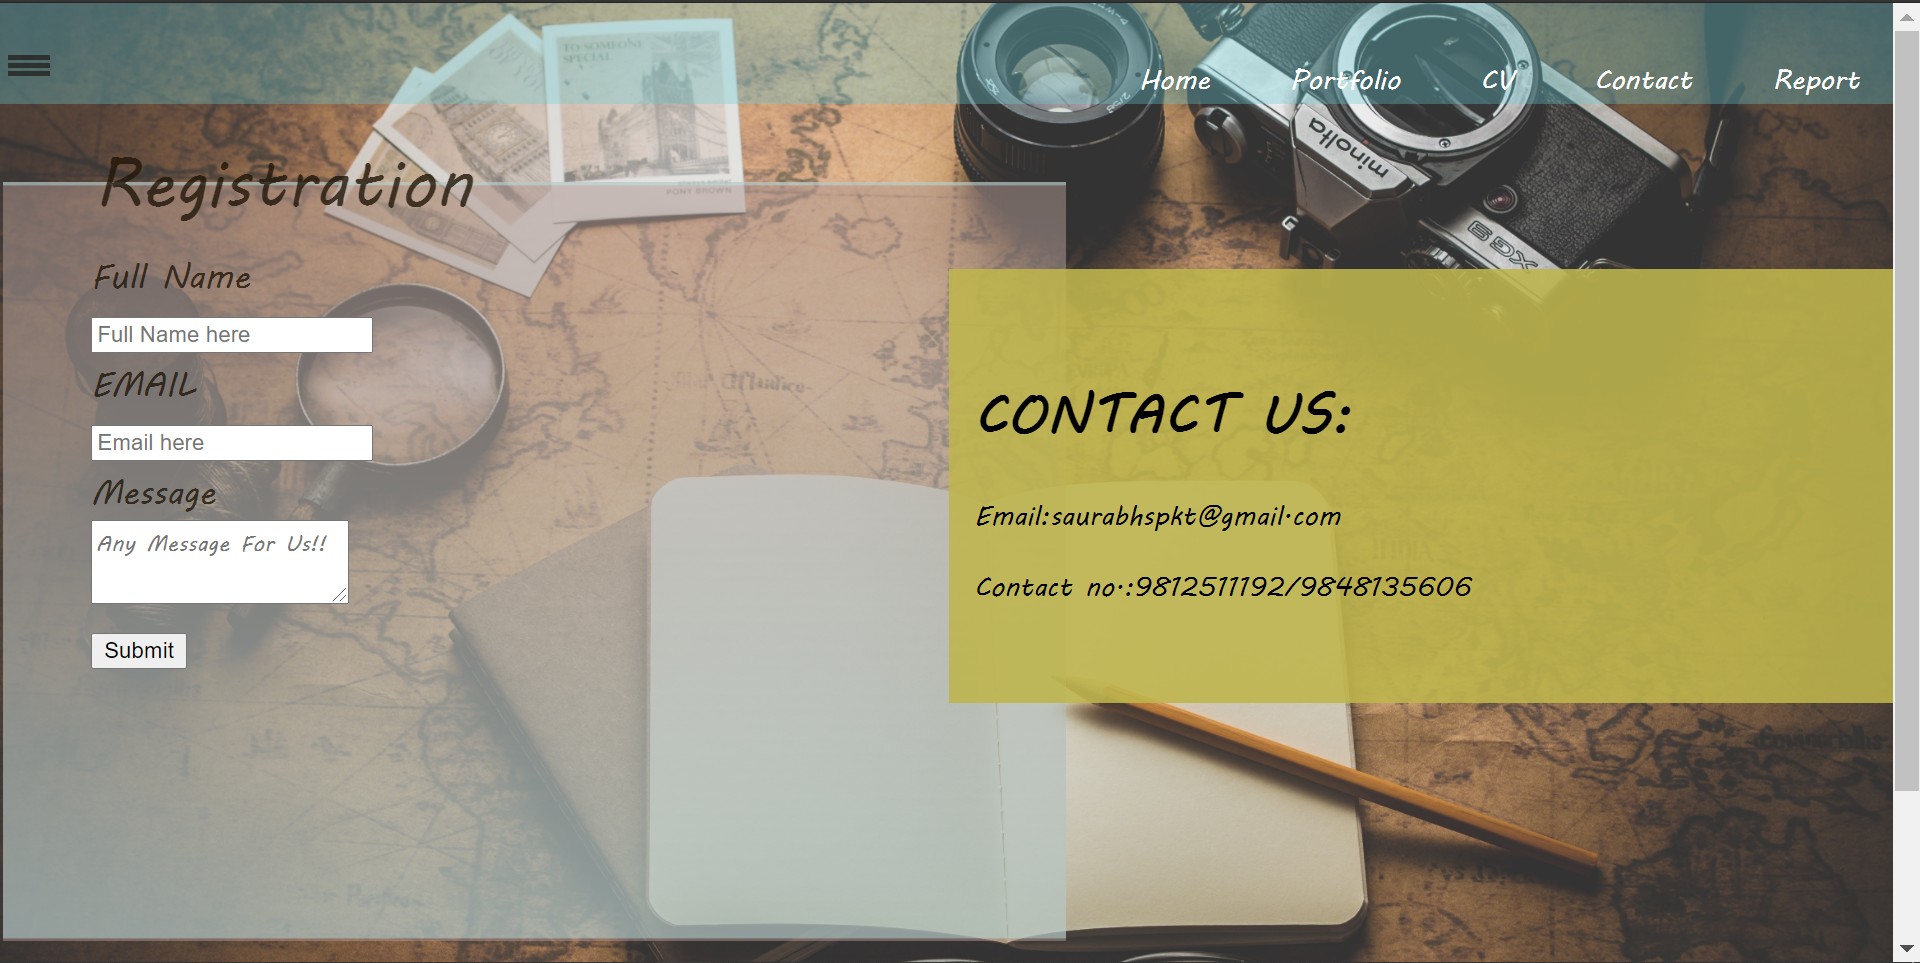
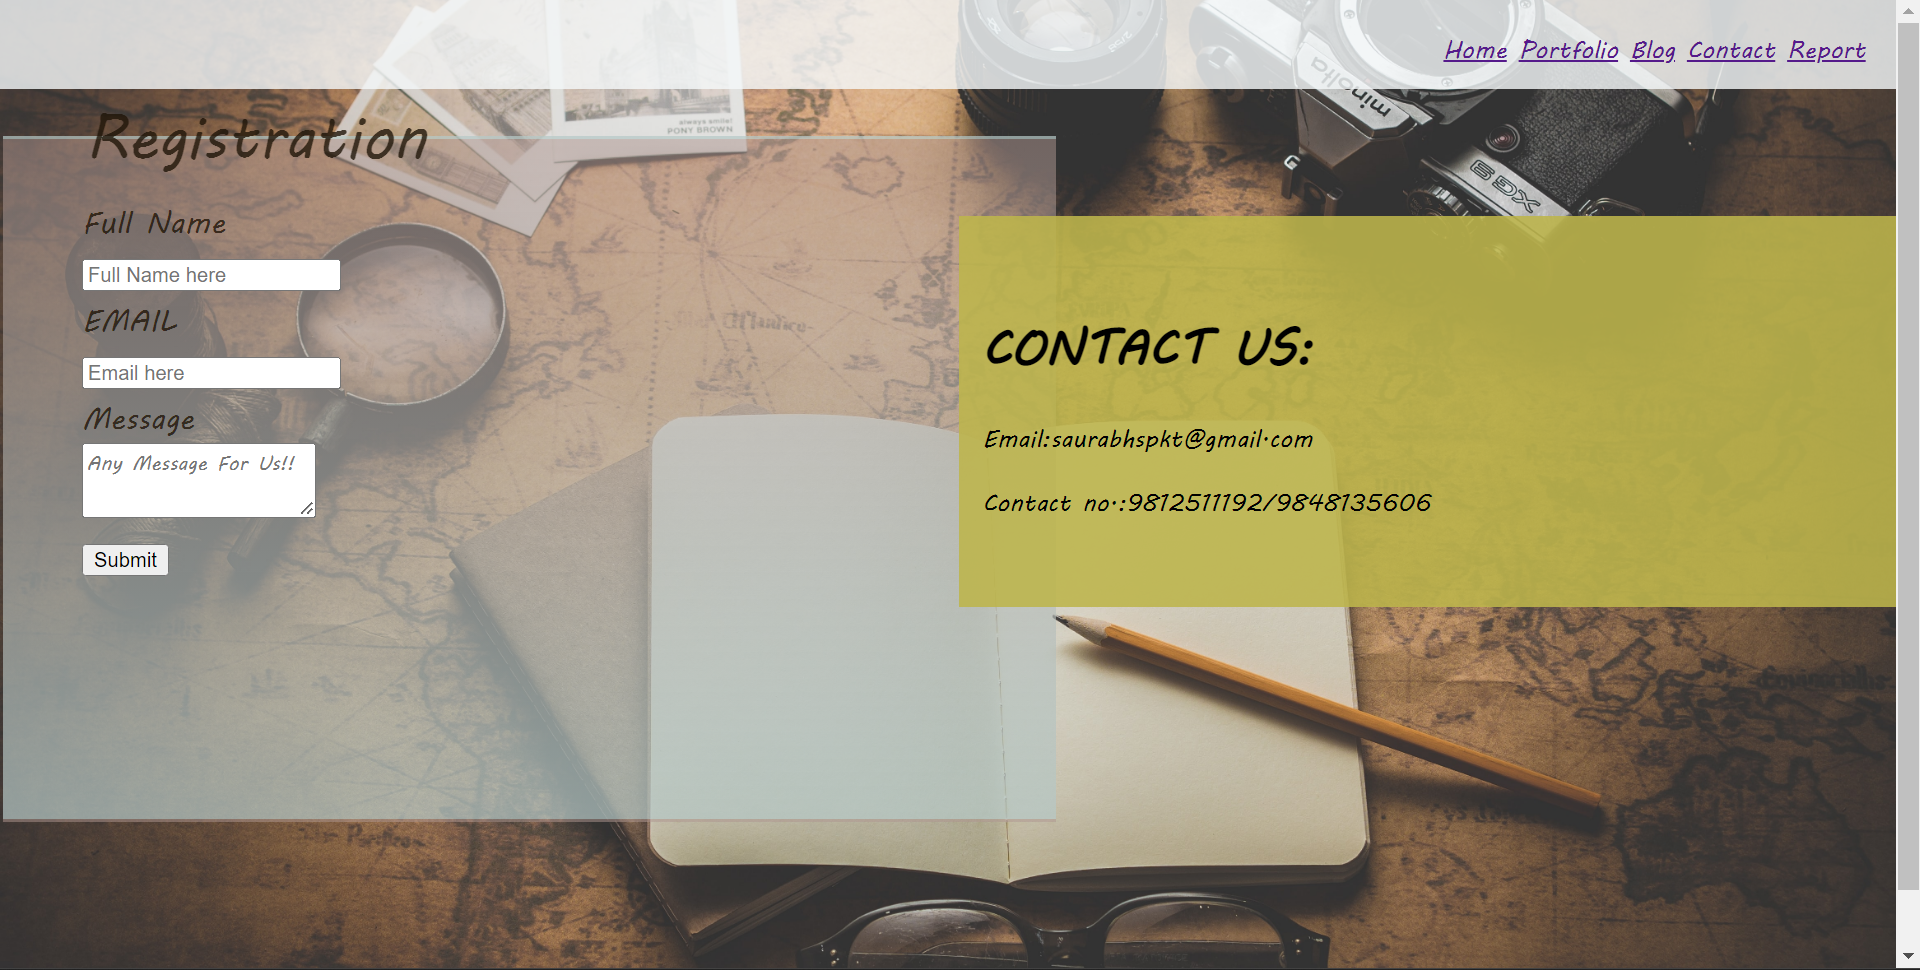
New Assignmnet

diff --git a/Assignment/sitereport.html b/Assignment/sitereport.html
@@ -1,0 +1,79 @@
+<!DOCTYPE HTML>
+<html>
+<head>
+	<title>Report</title>
+	<link rel="stylesheet" type="text/css" href="style.css">
+	 <meta name="viewport" content="width=device-width,initial-scale=1.0">
+</head>
+<body>
+	 <nav>
+	 	<div class="main">
+	 			 		<input type="checkbox" name="checkbox" id="font">
+  <div id="bla">
+  	<div class="port"></div>
+  	<div class="port"></div>
+  	<div class="port"></div>
+  </div>
+   <div class="uli">
+	 		<ul>
+				<a href="index.html">Home</a>
+	 			<a href="portfolio.html">Portfolio</a>
+				 <a href="blog.html">Blog</a>
+				<a href="contact.html">Contact</a>
+	 			<a href="sitereport.html">Report</a>
+	 		</ul>
+	 	</div>
+	 	</div>
+</nav>
+	 <div class="writing1">
+	 	<h1>REPORT</h1>
+	 	<p>This is the assignment of CSY1018(Web Development). In this report page I am going to talk about changes and experience while doing this assignment. The assignment was to design a personal webpage. The webpage must 5 pages. i.e., Home, Portfolio, Blog, Contact and Report page. Use of the media queries should be done in the web design.</p>
+		<p>First, we received information about the assignment. Then there was discussion class for assignment brief where I was clear about the assignment. Then I started my assignment with the backend of the website. First, I created all the html pages and linked them with the CSS. I had some confusion on the blog page as I didn`t exactly know what to do on that page. So, I discussed it with my module leader, and he cleared my doubt about that page. After all the pages were created, I came up for the navigation bar. I took the idea for the navigation bar from the “Web dev” channel on the YouTube. I have linked the channel name below in the reference section. 
+</p>
+<p>After navigation bar I made couple of changes in the UI design and fonts on the website. I then started finding perfect image for the website. After completing that I worked on the responsive design for the website. Then I completed remaining part of the assignment like blog page and sitereport. </p>
+<h1>Images before and after the updates of my pages:</h1>
+</div>
+
+<div class="pics">
+  <img class="homeA" src="homeA.png">
+  <img class="homeB" src="homeB.png">
+   <img class="portfolioA" src="portfolioA.png">
+  <img class="portfolioB" src="portfolioB.png">
+    <img class="blogA" src="blogA.png">
+    <img class="blogB" src="blogB.png">
+    <img class="contactA" src="contactA.png">
+  <img class="contactB" src="contactB.png">
+
+</div>
+
+	 <div class="writing2">
+	 	  <div class="desc">
+	 		
+	 	</div>
+ 		<p>In home page, I just kept it simple with a background image and with normal texting ‘Hi, Welcome to Saurabh`s Page’, 'This is my first website design'. The change in home page was just with the background image, placing and color of the text. After that on portfolio, I replaced my background image and adjusted the placeholders in their suitable places. On the blog page I have changed the entries. I have explained all the process of my assignment into three phases. On the contact page I haven`t changed anything else except background image and place of Contact Us section. Talking of report page, I’m currently working on that.</p>
+		<p>Web-Development is most interesting module till now as it got a lot of practical things to do and learning new codes everyday makes learning joyful. We get to learn new codes every day in class. New ideas and discussion in classroom made my assignment easier for me.  My experience doing this assignment was pretty amazing and interesting. I got to know a lot of different new codes, different ideas about designing the webpage. I also got to know new things about responsive and use of GitHub. At first, I was confused about the assignment as this type of assignment was totally new thing for me. Later our teacher guided us with the assignment.  Along with teacher there were friends to help with the assignment. </p>
+ 	
+	<p>In conclusion, I came up with different new ideas about web designing. I came to learn about many new codes which I missed in my class. This assignment was quiet interesting for me and helped boost my knowledge on Web-Development.</p>
+</div>
+
+<div class="writing3">
+	<h3>References:</h3>
+  <p>   For background-image:</p>
+  <p>Unsplash[online]</p>
+  <p>Available from:
+	<a href="https://unsplash.com/photos/3OiYMgDKJ6k" >
+     "https://unsplash.com/photos/3OiYMgDKJ6k" </p>
+	</a>
+
+
+  <p> For navigation bar:</p>
+  <p>YouTube[online]</p>
+  	 <p>Available from:
+	<a href="https://www.youtube.com/watch?v=uyaV_EWWRmo&ab_channel=eHoweHowVerified">
+  "https://www.youtube.com/watch?v=uyaV_EWWRmo&ab_channel=eHoweHowVerified"</p>
+	</a>
+ 
+</div>
+
+</body>
+</html>

diff --git a/Assignment/blog.html b/Assignment/blog.html
@@ -17,11 +17,12 @@
   </div>
    <div class="uli">
 	 		<ul>
-	 			<a href="home.html">Home</a>
+	 			<a href="index.html">Home</a>
 	 			<a href="portfolio.html">Portfolio</a>
 	 			<a href="blog.html">Blog</a>
 	 			<a href="contact.html">Contact</a>
-	 			<a href="report.html">Report</a>
+				 <a href="sitereport.html">Report</a>
+
 	 		</ul>
 	 	
 	 	</div>
@@ -31,16 +32,18 @@
 
      <main id="main">
         <div>
-            Lorem ipsum, dolor sit amet consectetur adipisicing elit. Maxime vel sunt incidunt minima quae ipsa itaque quaerat soluta iusto quas, accusamus nesciunt in odio, iste, commodi porro deserunt sint ut.
-        </div>
+			<h1>Phase-1</h1>
+			For the assignment first I read the brief carefully. Then, there was the discussion class for the assignment. In the class our module leader cleared all our doubts for the assignment. After that I started working on the backed of the website. First, I created the index.html page which I kept it simple with just welcome text. After index page I moved onto portfolio page. In that page  there are placeholder images. After creating index and portfolio I worked on the blog page which was little confusing to me. I had to discuss that with my module leader as I was not sure what to do exactly on that page. After discussing it was quite clear to me how to work on that page. So, at first I just created three entries with some of the random texts. Then I started working on the contact page where I created a form for registration along with my contact information. 
+            </div>
 
         <div>
-            Lorem ipsum, dolor sit amet consectetur adipisicing elit. Maxime vel sunt incidunt minima quae ipsa itaque quaerat soluta iusto quas, accusamus nesciunt in odio, iste, commodi porro deserunt sint ut.
-        </div>
+			<h1>Phase-2</h1>
+			On the second phase for the assignment there was the last page which need to be created and that was report page. On this page I had to conclude everything about the assignment. Then I decided to do that at last of the assignment after completing the assignment. After that I started working on the navigation bar for the website. I also changed and updated different things throughout the process of developing the  website. 	
+		</div>
 
-        <div>
-            Lorem ipsum, dolor sit amet consectetur adipisicing elit. Maxime vel sunt incidunt minima quae ipsa itaque quaerat soluta iusto quas, accusamus nesciunt in odio, iste, commodi porro deserunt sint ut.
-        </div>
+        <div><h1>Phase-3</h1>
+			This is the last part of the assignment. In this page I first worked on the .css part of the website to make couple of changes and updating the UI of the website. After that I worked on the responsive part of the assignment. I started looking for the background images for the pages. After finding the suitable background image I kept the same image for all the pages. After completing all other necessary task for the website, I completed the report page by including all the thing there. After report page I completed my blog page which I left incomplete. In blog page I created three phases of my working process on the website. After completing blog page, I updated the screenshot images of website development process on the report page. After completing all the thing, I made video demonstration of the website and uploaded my assignment. 	
+		</div>
         
 
     </main>

diff --git a/Assignment/style.css b/Assignment/style.css
@@ -1,13 +1,12 @@
 
 body{                           /*This is the CSS for body section for all the HTML pages.*/
 	background-image: url(style.jpg);
-	padding:0px;
     margin:0px;
     width: 100%;
     height:680px;
     background-size:cover;
     background-position:center;
-    background-repeat:no-repeat;
+    /* background-repeat:no-repeat; */
 
 }
 
@@ -18,8 +17,25 @@ body{                           /*This is the CSS for body section for all the H
 #main {
 	display: grid;
 	grid-template-columns: auto auto auto;
+	column-gap: 30px;
+	padding: 10px;
+	height: 80%;
+	
 }
 
+#main div{
+	background-color:rgb(210, 210, 210);
+	overflow-y: scroll;
+	height: 100%;
+	padding: 10px;
+	box-shadow: 2px 2px rgb(181, 180, 180);
+}
+#main div h1{
+	text-align: center;
+	position:sticky;
+	top:0;
+	background-color:rgb(227, 226, 226);
+}
 
 .uli{   
 	float:right;
@@ -34,12 +50,12 @@ body{                           /*This is the CSS for body section for all the H
 }
 
 .uli a:hover{									/*This part is for hover on the text inside nav bar. */
-	background-color: #69dcde;
+	background-color: #7ac6c7;
 	color: black;
 }
 
 nav{                                   /*This part is for the size and color of the navigation bar.*/
-	background-color: #67cdd852;
+	background-color: #f6f9facd;
 	height:60px;
 	width:100%;
 	margin-top: 0px;
@@ -293,7 +309,7 @@ tr, td{												 /*This part is for size and border-color of the table.*/
 
 
 
-@media screen and (max-width:500px){
+@media screen and (max-width:800px){
       	body{
       		height: 678px;
       	}
@@ -305,7 +321,7 @@ tr, td{												 /*This part is for size and border-color of the table.*/
    	display:flex;
     flex-direction: column;
    	transition: transform 0s;
-   	float: none;
+   	float: right;
     margin-left: 7%;
     margin-top: -50px;
 }
@@ -332,7 +348,10 @@ body{                           /*This is for the size of the size of background
     padding-left: 32px;
 }
 
-
+#main{
+	grid-template-columns: auto;
+	row-gap: 30px;
+}
 
 
 
@@ -375,6 +394,11 @@ body{                           /*This is for the size of the size of background
 	width: 36px;
 	top: 25px;
 	opacity: 0;
+}
+
+
+#bla{
+	display:block;
 }
 
 }

diff --git a/Assignment/index.html b/Assignment/index.html
@@ -1,0 +1,40 @@
+<!DOCTYPE html>
+<html>
+<head>
+	 <title>Saurabh`s Page</title>
+	 <link rel="stylesheet" type="text/css" href="style.css">
+	 <meta name="viewport" content="width=device-width,initial-scale=1.0">
+</head>
+<body>
+	 <nav>
+	 	<div class="main">
+	 	<input type="checkbox" name="checkbox" id="font">
+   <div id="bla">             
+  	<div class="port"></div>
+  	<div class="port"></div>
+  	<div class="port"></div>
+  </div>
+   <div class="uli">
+	 		<ul>
+	 			<a href="index.html">Home</a>
+	 			<a href="portfolio.html">Portfolio</a>
+	 			<a href="blog.html">Blog</a>
+	 			<a href="contact.html">Contact</a>
+				 <a href="sitereport.html">Report</a>
+
+	 		</ul>
+	 	
+	 	</div>
+	 </div>
+	 </nav>
+
+
+	 	<div class="text">
+	 		<h1>HI WELCOME</h1>
+	 		<h2>To</h2>
+	 		<h3>Saurabh`s Page</h3>
+			<p>This is my first website design.</p>
+	 	</div>
+     
+</body>
+</html>

diff --git a/Assignment/contact.html b/Assignment/contact.html
@@ -17,17 +17,19 @@
   </div>
    <div class="uli">
 	 		<ul>
-	 			<a href="home.html">Home</a>
+				<a href="index.html">Home</a>
 	 			<a href="portfolio.html">Portfolio</a>
 	 			<a href="blog.html">Blog</a>
 	 			<a href="contact.html">Contact</a>
-	 			<a href="report.html">Report</a>
+				 <a href="sitereport.html">Report</a>
+
 	 		</ul>
 	</div>
 </div>
 
 	 </nav>
-	 <fieldset>
+	 <form action="mailto:saurabhspkt@gmail.com" method="get">
+		<fieldset>
 			<legend>Registration</legend>
 			Full Name<br>
 			<input type="text" name="Fullname" required="required" placeholder="Full Name here"> <br>
@@ -45,6 +47,7 @@
 		
 
 </fieldset>
+	 </form>
 
    <div class="contact">
 

diff --git a/Assignment/portfolio.html b/Assignment/portfolio.html
@@ -16,11 +16,12 @@
   </div>
    <div class="uli">
 	 		<ul>
-	 			<a href="home.html">Home</a>
+				<a href="index.html">Home</a>
 	 			<a href="portfolio.html">Portfolio</a>
 	 			<a href="blog.html">Blog</a>
 	 			<a href="contact.html">Contact</a>
-	 			<a href="report.html">Report</a>
+				 <a href="sitereport.html">Report</a>
+
 	 		</ul>
 	 	
 	 	</div>
